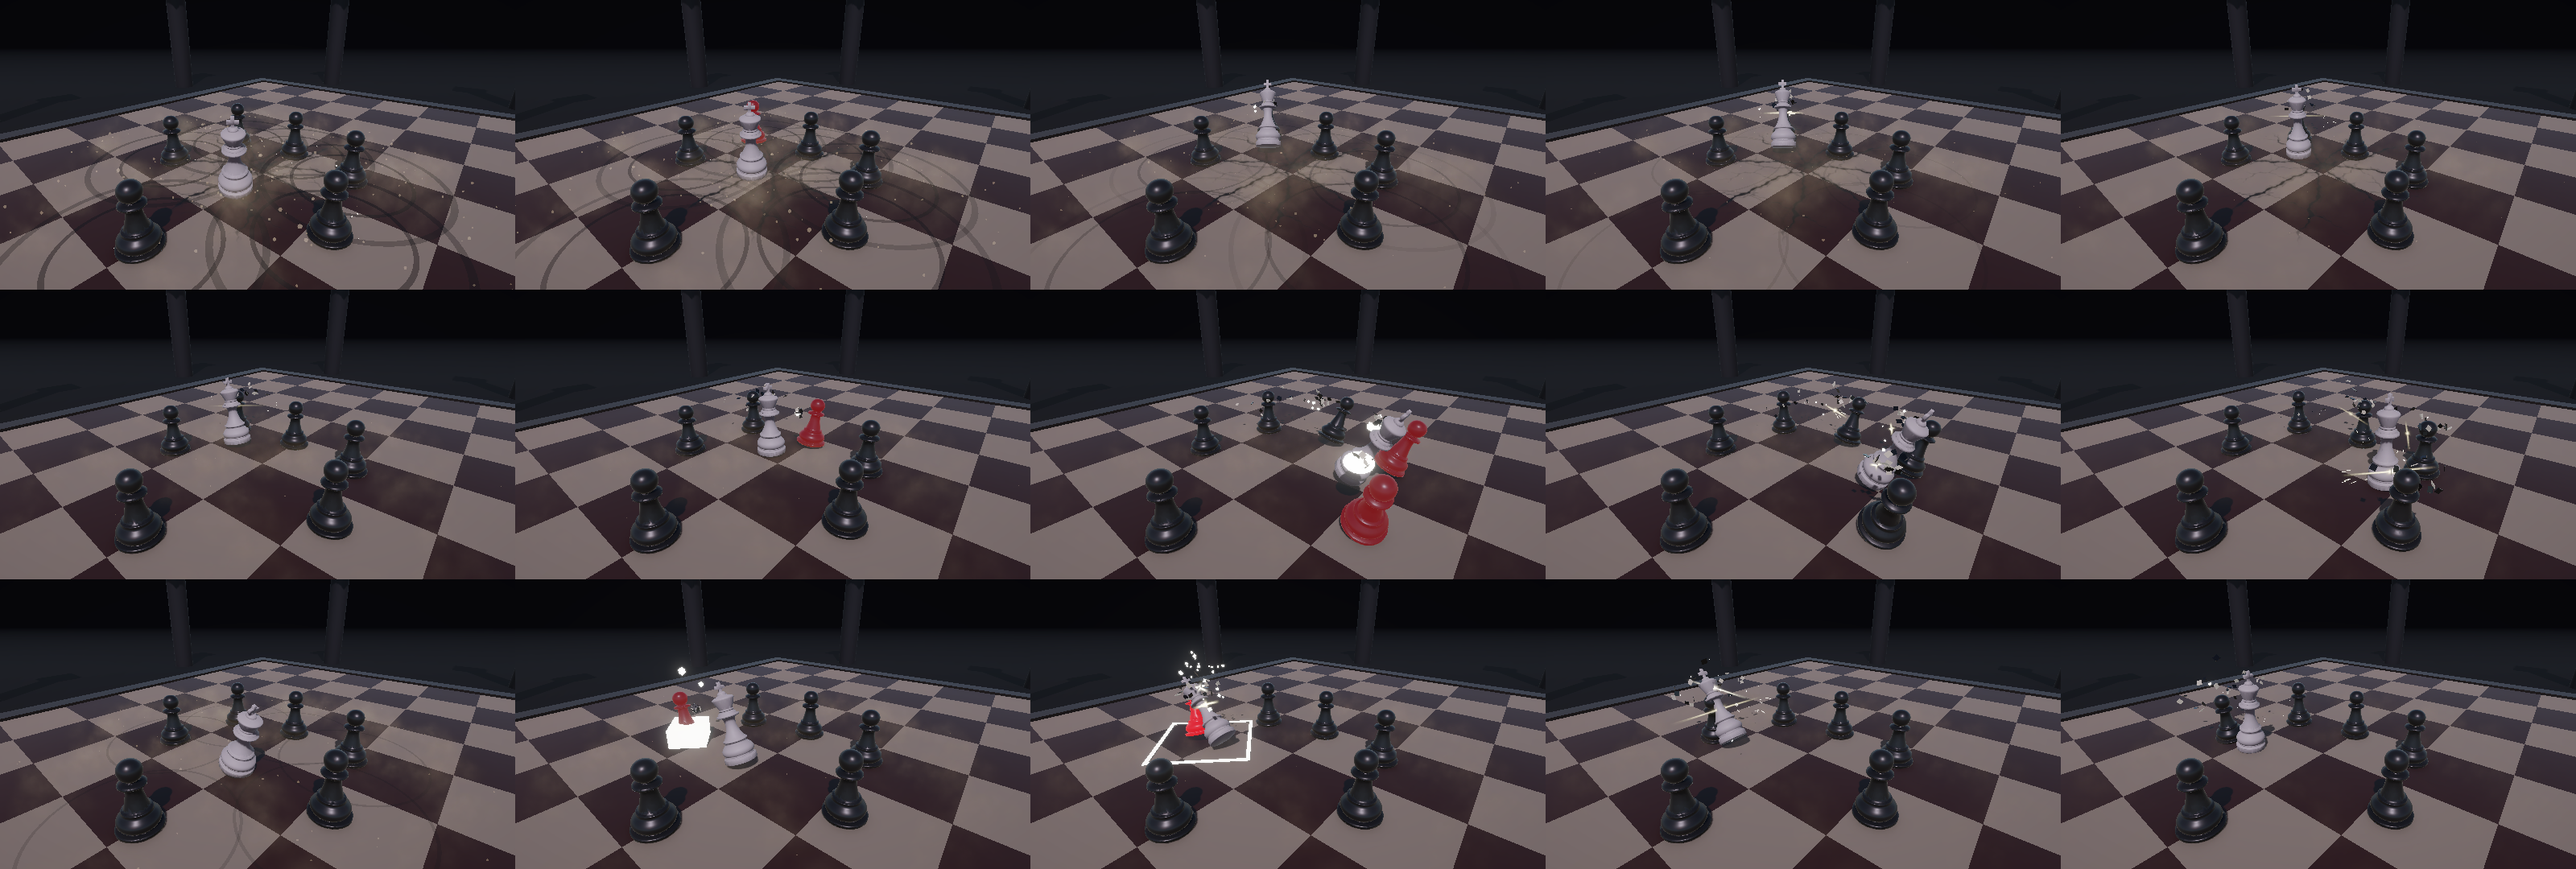
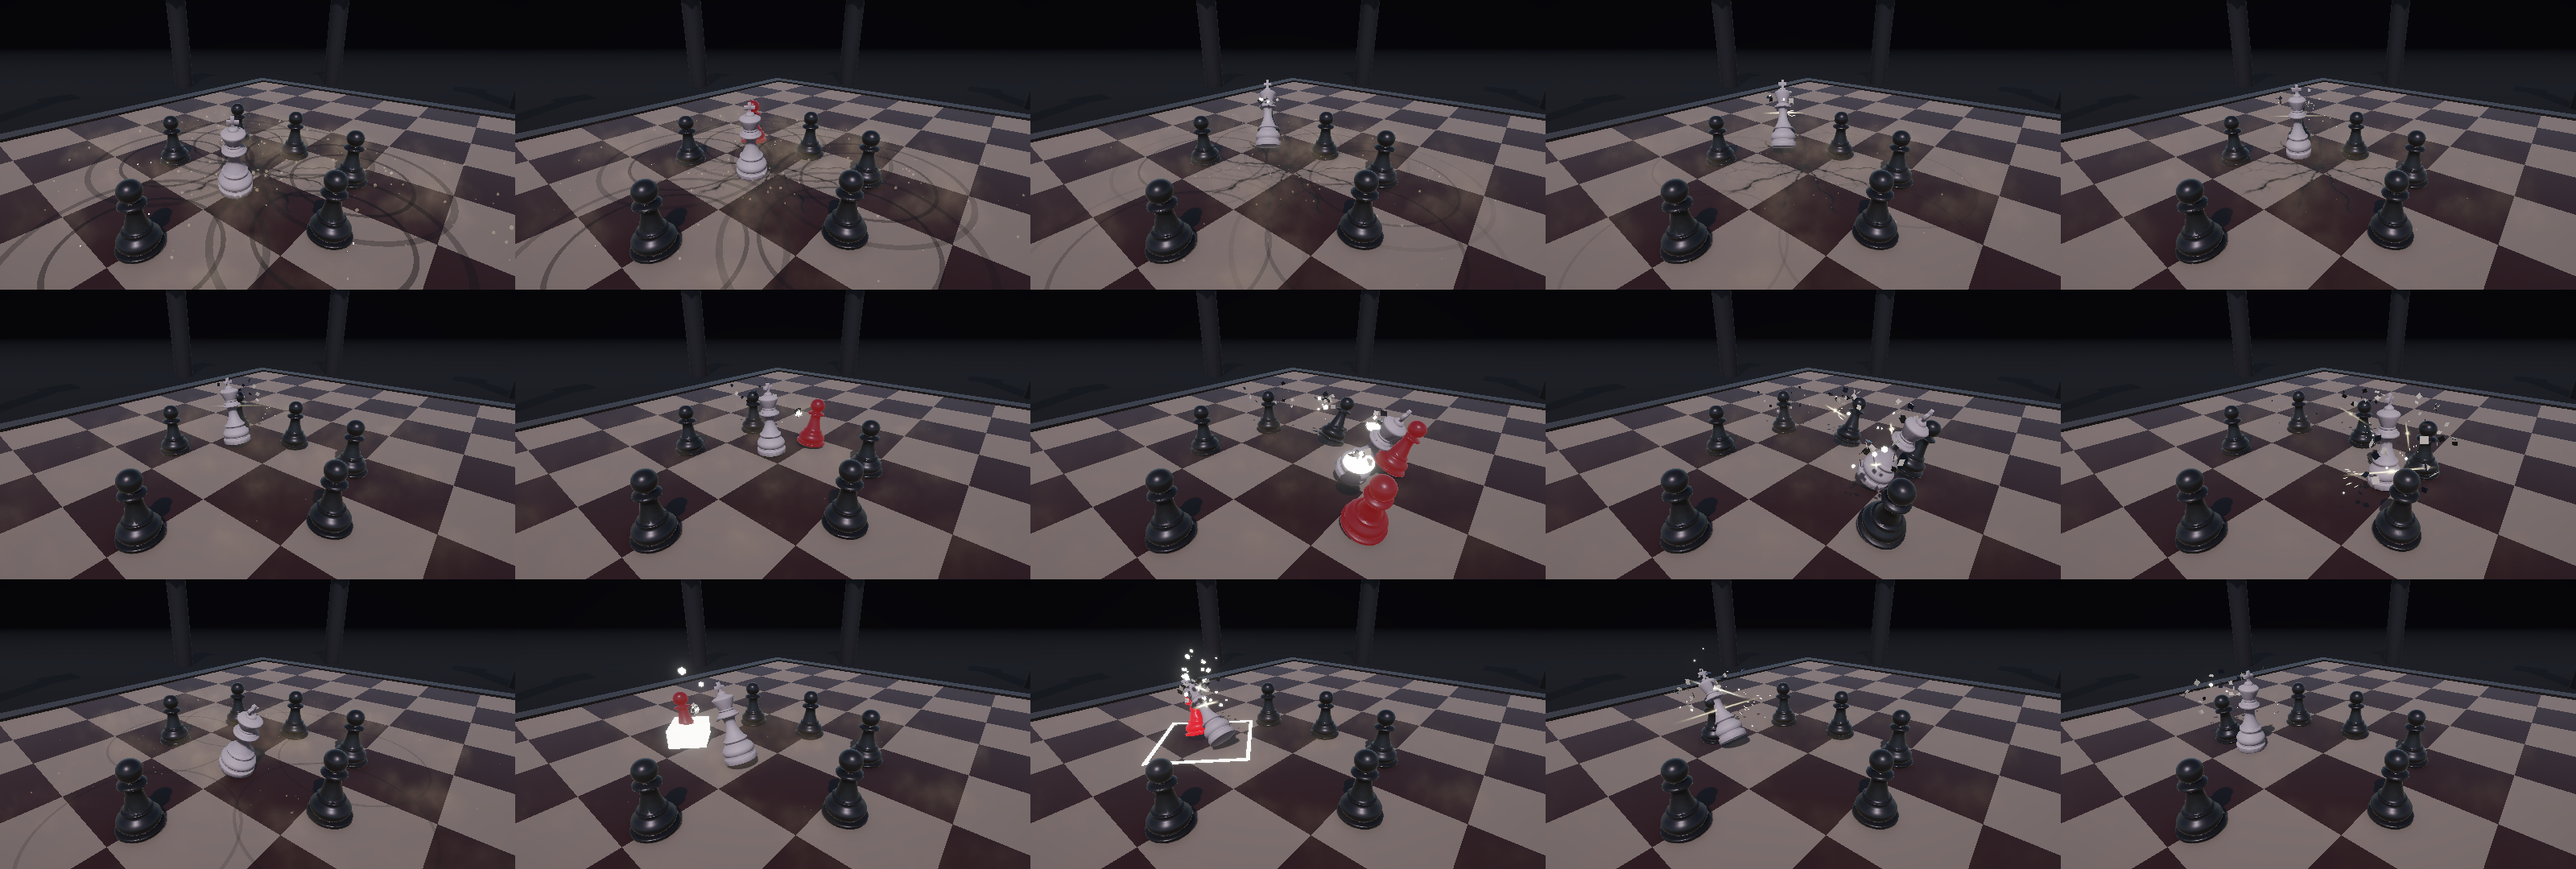
Knight cross fills outward; detour around blocking pieces; long-range lines
- Knight telegraph: no own square; the cross fills its centre first, then
  each arm grows outward from the centre edge
- Pieces walking to a slot step around any piece in the way on the side
  away from the King instead of shoving into it
- Rooks and bishops strike from anywhere on the King's rank/file or
  diagonal (2 squares out to the edge), so they charge from afar

diff --git a/Assets/Scripts/Core/Telegraph.cs b/Assets/Scripts/Core/Telegraph.cs
@@ -6,9 +6,9 @@ namespace KingLastPiece
     /// <summary>
     /// Enemy attack warning, drawn on the chessboard itself while a piece winds up:
     /// <list type="bullet">
-    /// <item>Lit squares — the attacker's own square and every board square the attack will reach glow red and fills from its centre outward as the
-    /// wind-up runs; a fully red square means "now". Charges fill square by square from the attacker to the end of
-    /// the charge.</item>
+    /// <item>Lit squares — the attacker's own square (knights excepted) and every square the attack will reach glow
+    /// red and fill from the centre outward as the wind-up runs; a fully red square means "now". Charges fill square
+    /// by square from the attacker to the end of the charge; a knight's cross fills its centre, then the arms.</item>
     /// <item>Timing — for the last <see cref="FlashTime"/> seconds the square outlines and the route blink white: the
     /// cue for a perfect dodge.</item>
     /// <item>Route — a dotted path that lights up in sequence: along the line for charges and thrusts, the L for a
@@ -26,6 +26,7 @@ namespace KingLastPiece
         class Cell
         {
             public Vector2Int square;
+            public Vector2Int grow;   // zero: fill grows from the centre; else it grows from the edge facing -grow toward grow
             public Transform fill;
             public Transform[] edges;
         }
@@ -74,7 +75,10 @@ namespace KingLastPiece
             var t = Create("Telegraph_Leap", Kind.Leap, windup);
             t.start = Flat(from);
             t.center = Flat(target);
-            t.RebuildCells(WithSquare(CrossSquares(BoardSlots.ToSquare(t.center), t.scratch), BoardSlots.ToSquare(t.start)));
+            // The cross only (not the knight's own square): the centre fills first, then each arm grows outward from it.
+            var landing = BoardSlots.ToSquare(t.center);
+            t.RebuildCells(CrossSquares(landing, t.scratch));
+            foreach (var c in t.cells) c.grow = c.square - landing;
             t.BuildKnightRoute();
             if (ghostModel != null) t.BuildGhost(ghostModel);
             return t;
@@ -292,10 +296,25 @@ namespace KingLastPiece
             for (int i = 0; i < n; i++)
             {
                 var c = cells[i];
-                // Centre-out fill. A charge fills its squares one after another, from the attacker to the end.
-                float f = kind == Kind.Line ? Mathf.Clamp01(p * n - i) : p;
+                // Centre-out fill. A charge fills its squares one after another, from the attacker to the end; a knight's
+                // cross fills its centre first, then the arms outward.
+                float f = kind == Kind.Line ? Mathf.Clamp01(p * n - i)
+                        : kind == Kind.Leap ? (c.grow == Vector2Int.zero ? Mathf.Clamp01(p * 2f) : Mathf.Clamp01(p * 2f - 1f))
+                        : p;
                 float s = Mathf.Max(0.001f, size * PoseTrack.Curve(Ease.Out, f));
-                c.fill.localScale = new Vector3(s, 0.01f, s);
+                Vector3 sc = BoardSlots.Center(c.square) + Vector3.up * 0.028f;
+                if (c.grow == Vector2Int.zero)
+                {
+                    c.fill.position = sc;
+                    c.fill.localScale = new Vector3(s, 0.01f, s);
+                }
+                else
+                {
+                    // Anchored on the edge nearest the cross centre, growing outward.
+                    var g = new Vector3(c.grow.x, 0f, c.grow.y);
+                    c.fill.position = sc - g * (size * 0.5f) + g * (s * 0.5f);
+                    c.fill.localScale = c.grow.x != 0 ? new Vector3(s, 0.01f, size) : new Vector3(size, 0.01f, s);
+                }
                 foreach (var e in c.edges)
                 {
                     var r = e.GetComponent<Renderer>();

diff --git a/Assets/Scripts/Combat/EnemyBase.cs b/Assets/Scripts/Combat/EnemyBase.cs
@@ -406,7 +406,39 @@ namespace KingLastPiece
                 target = FlatPos + new Vector3(Mathf.Sign(d.x) * step, 0f, Mathf.Sign(d.z) * step);   // along the diagonal
             }
             else if (gait == Gait.Direct && DetourAroundKing) target = AroundKing(target);
+            if (DetourAroundKing) target = AroundPieces(target);
             MoveTowards(target, speed, dt);
+        }
+
+        /// <summary>
+        /// Another piece standing in the way: step around it on the side away from the King instead of shoving into
+        /// it (and getting pushed back). Once past it, the piece heads for its target again.
+        /// </summary>
+        Vector3 AroundPieces(Vector3 target)
+        {
+            Vector3 pos = FlatPos, to = target - pos;
+            float len = to.magnitude;
+            if (len < 0.05f || Game == null) return target;
+            Vector3 dir = to / len;
+            EnemyBase block = null;
+            float nearest = float.MaxValue;
+            foreach (var o in Game.Enemies)
+            {
+                if (o == null || o == this || o.IsDead || o.IgnoresCollision) continue;
+                Vector3 rel = o.FlatPos - pos;
+                float along = Vector3.Dot(rel, dir);
+                if (along <= 0.05f || along > Mathf.Min(len + 0.3f, 2.5f)) continue;
+                float across = Mathf.Abs(Vector3.Cross(dir, rel).y);
+                if (across > Radius + o.Radius + 0.25f) continue;
+                if (along < nearest) { nearest = along; block = o; }
+            }
+            if (block == null) return target;
+
+            Vector3 side = Vector3.Cross(Vector3.up, dir);
+            float clear = Radius + block.Radius + 0.45f;
+            Vector3 a = block.FlatPos + side * clear, b = block.FlatPos - side * clear;
+            Vector3 king = Player != null ? Player.FlatPos : pos;
+            return (a - king).sqrMagnitude >= (b - king).sqrMagnitude ? a : b;   // the side farther from the King
         }
 
         /// <summary>

diff --git a/Assets/Scripts/Core/BoardSlots.cs b/Assets/Scripts/Core/BoardSlots.cs
@@ -143,15 +143,17 @@ namespace KingLastPiece
             new Vector2Int(-1, -2), new Vector2Int(-2, -1), new Vector2Int(-2, 1), new Vector2Int(-1, 2),
         };
 
-        public static readonly Vector2Int[] BishopSlots = Lines(diagonal: true, orthogonal: false);
-        public static readonly Vector2Int[] RookSlots = Lines(diagonal: false, orthogonal: true);
-        public static readonly Vector2Int[] QueenSlots = Lines(diagonal: true, orthogonal: true);
+        // Rooks and bishops strike from anywhere on their lines (2 squares out up to the far edge): a piece already on the
+        // King's rank/file or diagonal charges from where it is. The queen keeps to 2–3 squares.
+        public static readonly Vector2Int[] BishopSlots = Lines(diagonal: true, orthogonal: false, 2, 7);
+        public static readonly Vector2Int[] RookSlots = Lines(diagonal: false, orthogonal: true, 2, 7);
+        public static readonly Vector2Int[] QueenSlots = Lines(diagonal: true, orthogonal: true, 2, 3);
 
-        /// <summary>Line pieces strike from 2–3 squares away (room to build up the charge).</summary>
-        static Vector2Int[] Lines(bool diagonal, bool orthogonal)
+        /// <summary>Squares on the lines through the King, <paramref name="minK"/>..<paramref name="maxK"/> squares out (at least 2: room to charge).</summary>
+        static Vector2Int[] Lines(bool diagonal, bool orthogonal, int minK, int maxK)
         {
             var list = new List<Vector2Int>();
-            for (int k = 2; k <= 3; k++)
+            for (int k = minK; k <= maxK; k++)
             {
                 if (orthogonal)
                 {

diff --git a/Assets/Scripts/Lab/PracticeArena.cs b/Assets/Scripts/Lab/PracticeArena.cs
@@ -654,8 +654,8 @@ namespace KingLastPiece
             {
                 case PieceType.Pawn: return m == 1;                                               // diagonal capture or straight push
                 case PieceType.Knight: return (ax == 1 && ay == 2) || (ax == 2 && ay == 1);
-                case PieceType.Bishop: return ax == ay && m >= 2 && m <= 3;
-                case PieceType.Rook: return ((ax == 0 || ay == 0) && m >= 2 && m <= 3) || m <= 1;   // ram, or slam when crowded
+                case PieceType.Bishop: return ax == ay && m >= 2;
+                case PieceType.Rook: return ((ax == 0 || ay == 0) && m >= 2) || m <= 1;               // ram from anywhere on the line, or slam when crowded
                 default: return true;                                                            // queen: lines, slam, or a leap from anywhere
             }
         }

diff --git a/Assets/Scripts/Combat/RookEnemy.cs b/Assets/Scripts/Combat/RookEnemy.cs
@@ -3,8 +3,8 @@ using UnityEngine;
 namespace KingLastPiece
 {
     /// <summary>
-    /// Rook: heavy, armored. Slides along ranks and files to a square 2–3 squares out on the King's rank or file,
-    /// then rams down that line. When the King steps next to it, it slams the squares around itself instead.
+    /// Rook: heavy, armored. Slides along ranks and files to the nearest square on the King's rank or file (2 squares
+    /// out or more), then rams down that line. When the King steps next to it, it slams the squares around itself.
     /// </summary>
     public class RookEnemy : EnemyBase
     {

diff --git a/Assets/Scripts/Combat/BishopEnemy.cs b/Assets/Scripts/Combat/BishopEnemy.cs
@@ -3,8 +3,8 @@ using UnityEngine;
 namespace KingLastPiece
 {
     /// <summary>
-    /// Bishop: glides along diagonals to a square 2–3 squares out on one of the King's diagonals, then charges
-    /// down that diagonal through the King's square to the board edge.
+    /// Bishop: glides along diagonals to the nearest square on one of the King's diagonals (from 2 squares out up to the
+    /// far edge), then charges down that diagonal through the King's square to the board edge.
     /// </summary>
     public class BishopEnemy : EnemyBase
     {
